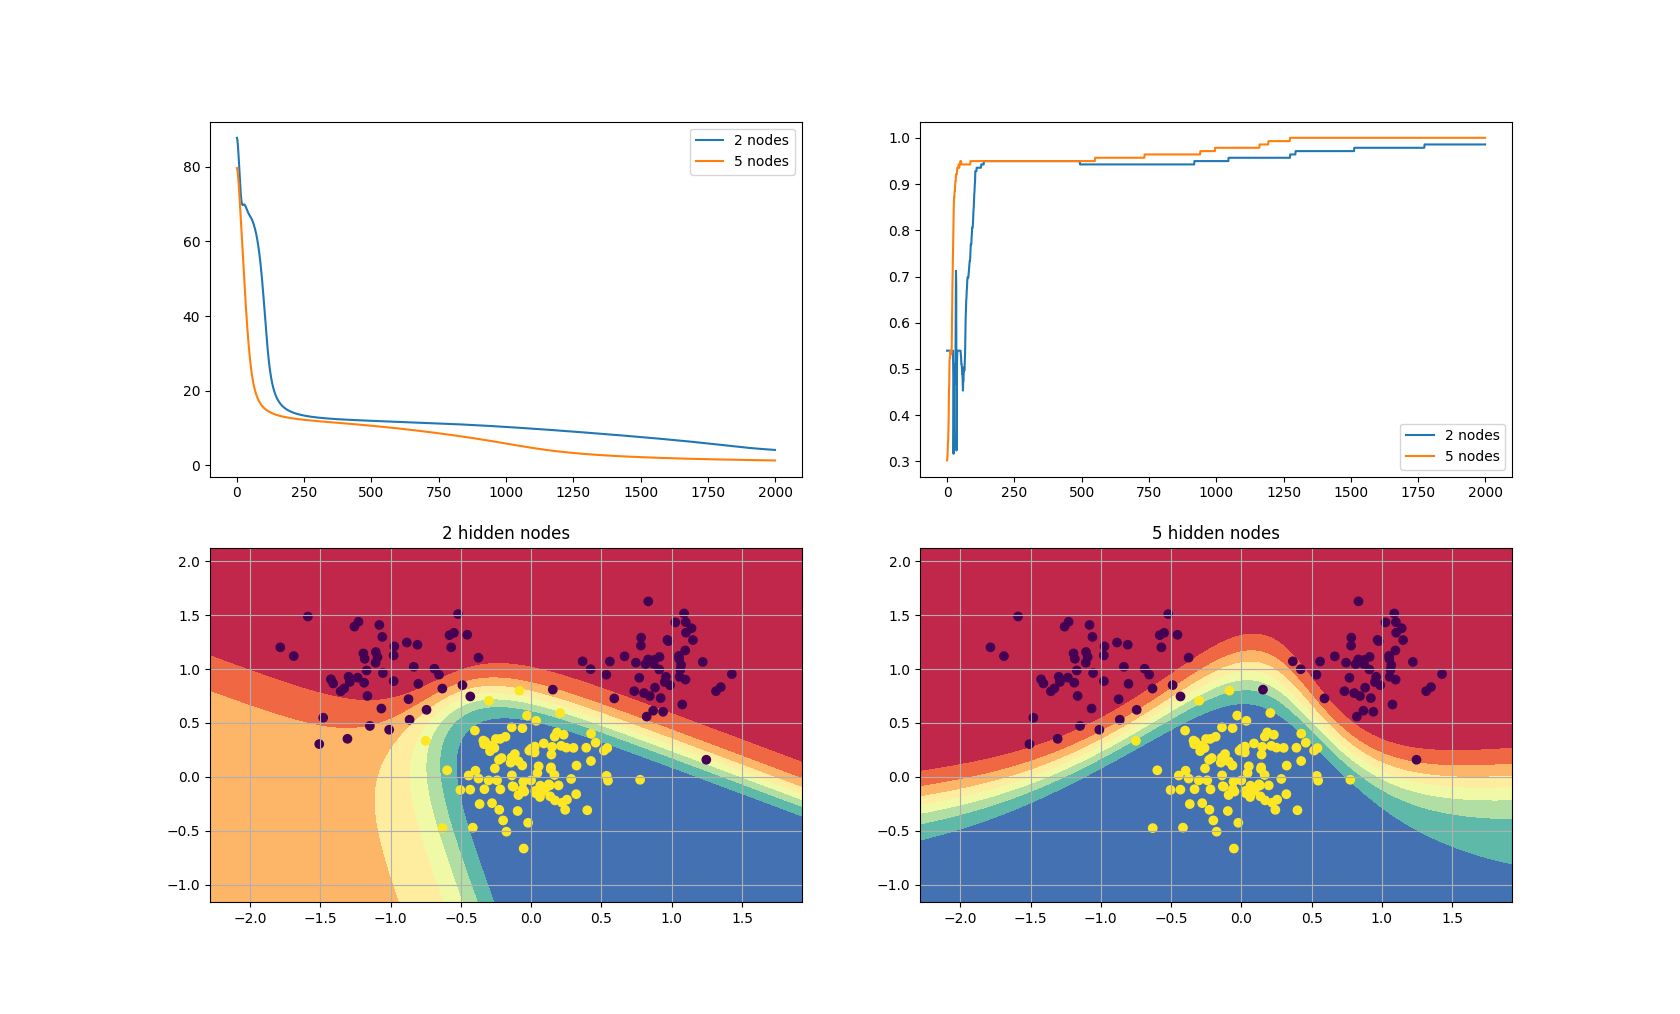
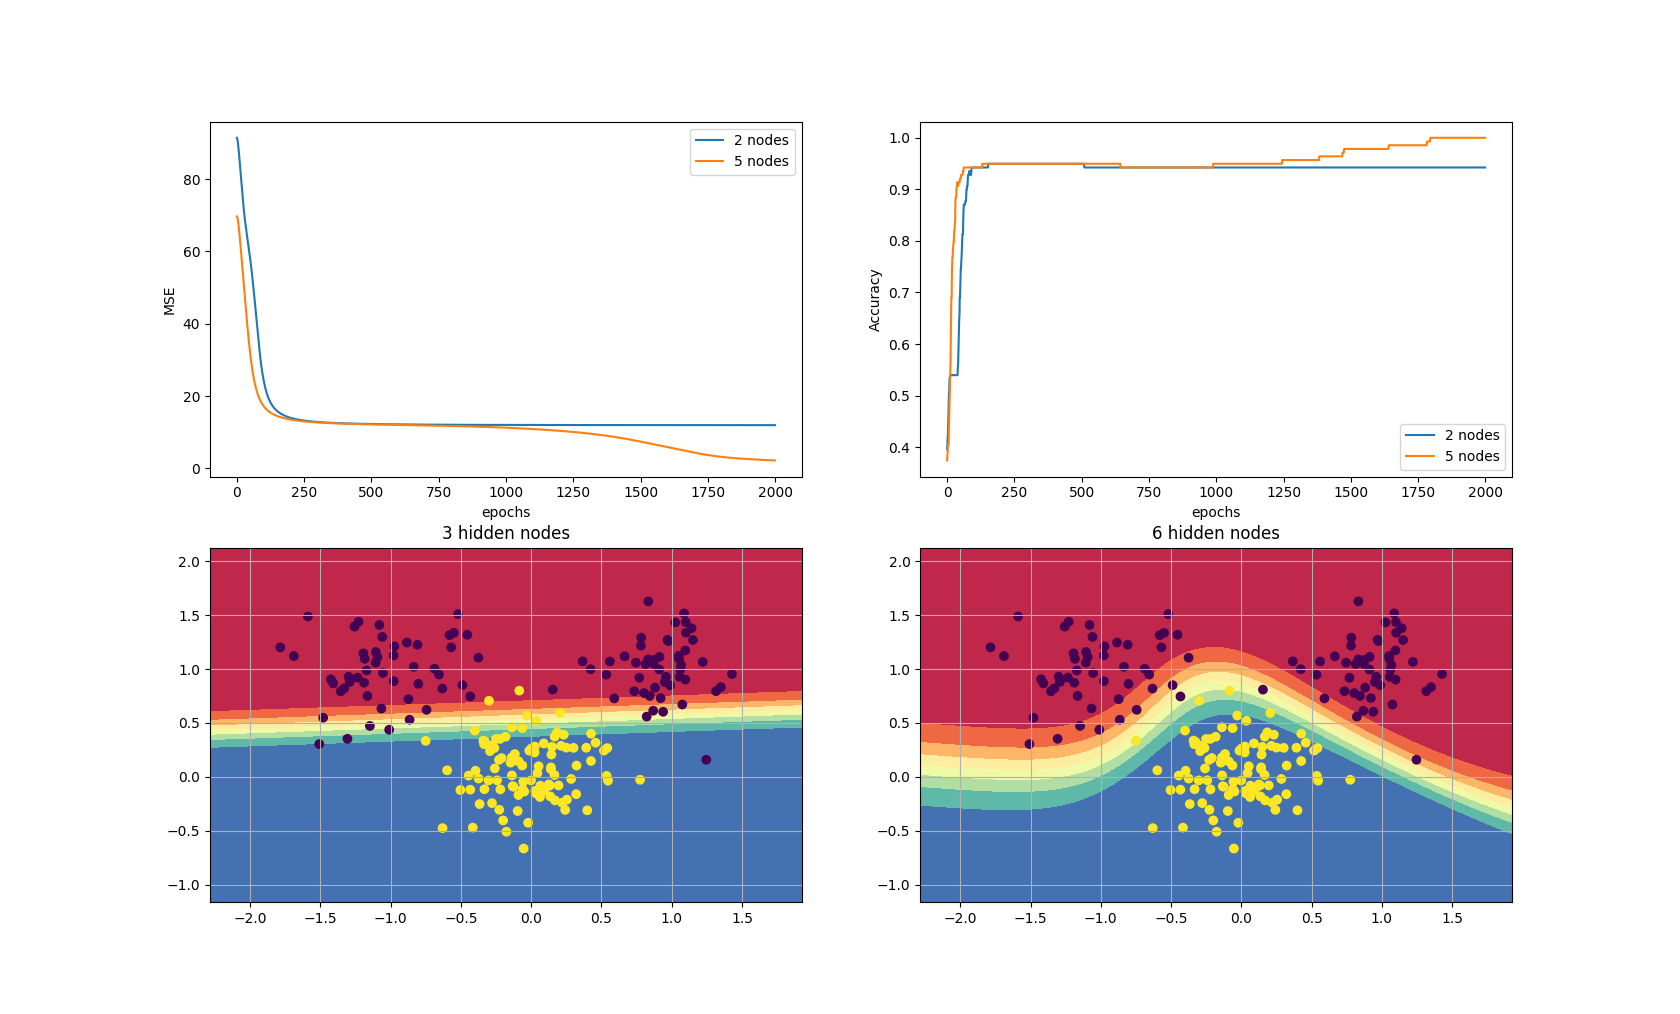
results

diff --git a/lab1/task3.2.py b/lab1/task3.2.py
@@ -273,6 +273,7 @@ def generate_weights(inputs, settings):
         W = [np.random.normal(0, 0.001, (settings['hidden_nodes'], inputs.shape[0] + 1)),
             np.random.normal(0, 0.001, (settings['output_dim'], settings['hidden_nodes'] + 1))]
     else:
+        # https://www.tensorflow.org/api_docs/python/tf/keras/initializers/he_normal
         W = [np.random.normal(0, np.sqrt(2 / (inputs.shape[0]+1)), (settings['hidden_nodes'], inputs.shape[0] + 1)),
             np.random.normal(0, np.sqrt(2 / (settings['hidden_nodes'] + 1)), (settings['output_dim'], settings['hidden_nodes'] + 1))]
     return W
@@ -336,17 +337,21 @@ def plot_hidden_node_comparison(inputs, labels, nodes, settings, results):
     for i, n in enumerate(nodes):
         plt.plot(np.arange(0, len(results[i]['Cost'])), results[i]['Cost'], label='{} nodes'.format(n))
         plt.legend()
+        plt.xlabel('epochs')
+        plt.ylabel('MSE')
 
     plt.subplot(2, 2, 2)
     for i, n in enumerate(nodes):
         plt.plot(np.arange(0, len(results[i]['Missclassification'])), results[i]['Missclassification'], label='{} nodes'.format(n))
         plt.legend()
+        plt.xlabel('epochs')
+        plt.ylabel('Accuracy')
 
     for i, r in enumerate(results):
         plt.subplot(2,2,i+3)
         plot_decision_boundary(inputs, lambda x: predict(results[i]['W'], x))
         plot_classes(inputs, labels, hidden_nodes=nodes[i])
-        plt.title('{} hidden nodes'.format(str(nodes[i])))
+        plt.title('{} hidden nodes'.format(str(nodes[i]+1)))
 
     plt.show()
 
@@ -354,7 +359,7 @@ def plot_hidden_node_comparison(inputs, labels, nodes, settings, results):
 def task321():
 
     # NOTE: Hidden nodes are mapped as nods = n + 1 i.e 2 => 3, 3 => 4, ...
-    nodes = [2, 5]
+    nodes = [8, 11]
     results = []
     inputs, labels = load_data(sys.argv[1])
     training, validation, test = split_data(inputs, labels, test_size=0.1, validation_size=0.2)
